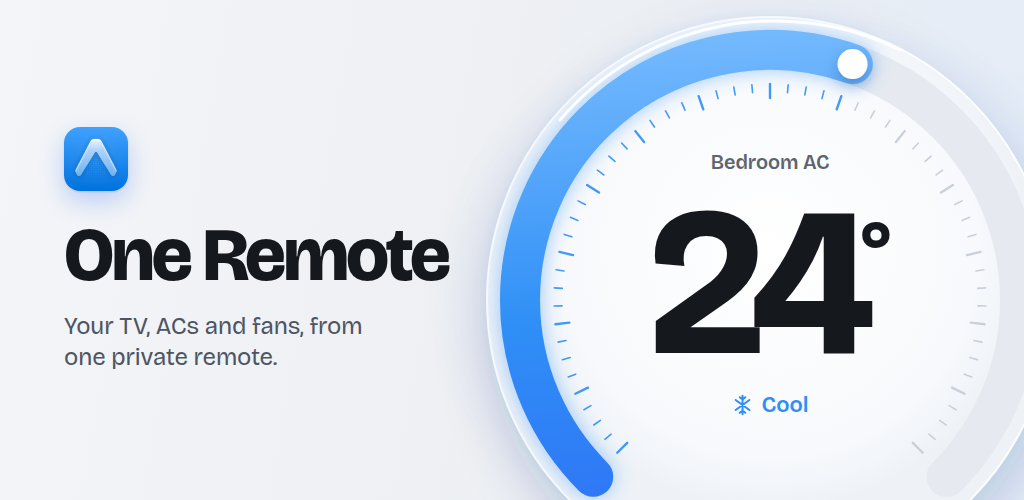
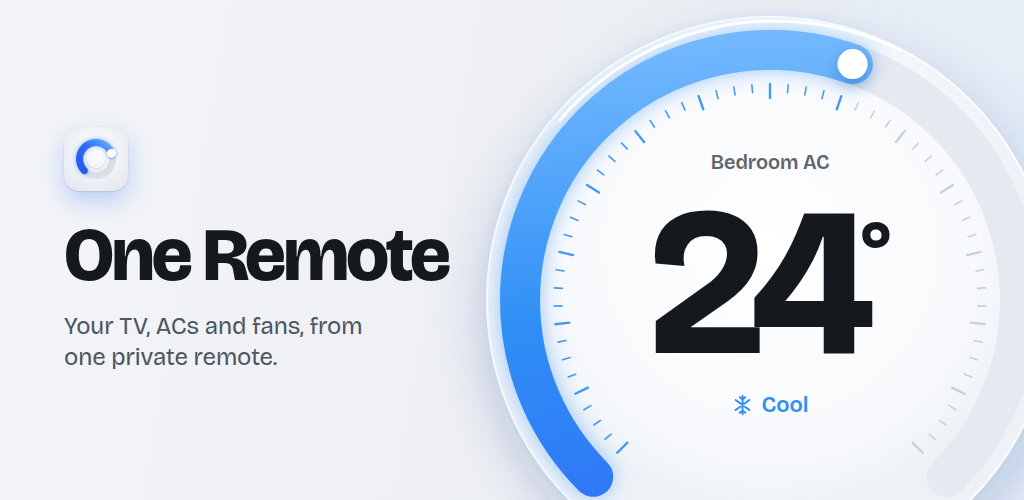
docs(store): add phone screenshots and re-render the feature graphic

Changed region(s): [[0.0625, 0.24, 0.125, 0.39]]

diff --git a/docs/store/listing.md b/docs/store/listing.md
@@ -50,8 +50,10 @@ maker. Brand names are used only to say which devices work.
 
 ## Graphics
 
-- App icon: 512×512, from `assets/images/icon.png`.
+- App icon: 512×512, from `assets/images/icon.png` (the dial icon).
 - Feature graphic: 1024×500, `docs/store/feature-graphic.png` (built from
   `docs/store/feature-graphic.html`): the AC temperature dial. It shows the app icon, so re-render it
   when the icon changes.
-- Phone screenshots: at least 2, to be captured from the real app on the iQOO (Home, TV, AC, Fan).
+- Phone screenshots: `docs/store/screenshots/` (1080×1920, in upload order: Home, AC, TV, Fan, Air
+  freshener). They show the central mock's screens with a caption above each. Replace them with
+  captures from the real app on the iQOO if the app drifts from the mock.
